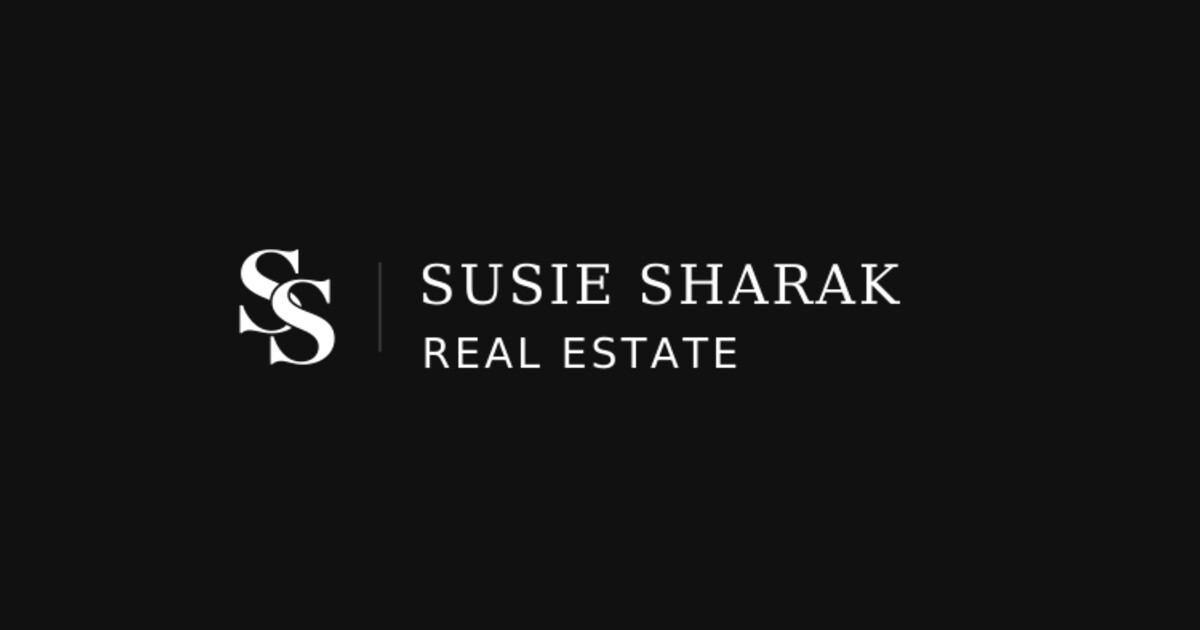
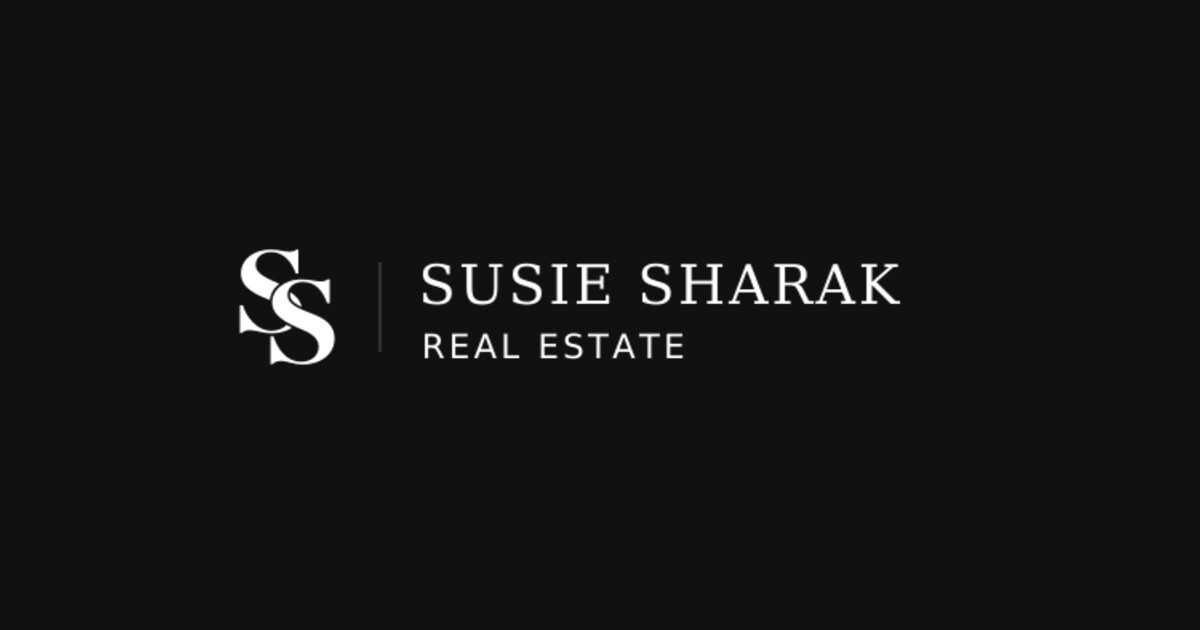
Update branding assets and site layout configuration
Replit-Commit-Author: Agent

Changed region(s): [[0.3392, 0.5127, 0.6167, 0.6032]]

diff --git a/site/layout.css b/site/layout.css
@@ -39,7 +39,7 @@ p { margin-bottom: 18px; }
 .brand-brokerage { font-size: 12px; line-height: 1.4; margin-top: 3px; padding-left: 55px; }
 .header-call,.desktop-nav { display: none; }
 .mobile-menu { display: block; position: relative; flex-shrink: 0; margin-left: auto; }
-.mobile-menu summary { display: flex; align-items: center; gap: 14px; min-height: 48px; padding: 10px 16px; font-size: 16px; border: 1px solid var(--line); border-radius: 0; cursor: pointer; list-style: none; }
+.mobile-menu summary { display: flex; align-items: center; justify-content: center; width: 48px; height: 48px; min-height: 48px; padding: 12px; font-size: 16px; border: 1px solid #777; border-radius: 50%; cursor: pointer; list-style: none; }
 .mobile-menu summary::marker { display: none; }
 .menu-icon { width: 22px; height: 22px; }
 .mobile-menu summary span { padding-left: 8px; }
@@ -226,7 +226,7 @@ body:has(.mobile-menu[open]) .floating-contact { display: none; }
 @media (max-width: 699px) {
   .header-inner .brand-lockup { width: 230px; }
   .menu-open-label { display: none; }
-  .mobile-menu summary { width: 50px; padding: 12px; justify-content: center; }
+  .mobile-menu summary { width: 48px; padding: 12px; justify-content: center; }
   .mobile-menu .menu-icon { width: 24px; height: 24px; }
   .profile-card img { width: 140px; height: 40px; }
   .profile-grid { gap: 28px 30px; }
@@ -270,8 +270,8 @@ body:has(.mobile-menu[open]) .floating-contact { display: none; }
   .header-inner > .brand { grid-column: 1/4; grid-row: 1; }
   .brand-lockup { width: 250px; }
   .brand-brokerage { padding-left: 66px; }
-  .desktop-nav { display: flex; justify-content: center; align-items: center; grid-column: 4/11; grid-row: 1; gap: 18px; }
-  .desktop-nav a { display: inline-flex; align-items: center; min-height: 48px; font: 400 18px/1.4 var(--serif); letter-spacing: -.015em; }
+  .desktop-nav { display: flex; justify-content: flex-end; align-items: center; grid-column: 4/12; grid-row: 1; gap: 26px; }
+  .desktop-nav a { display: inline-flex; align-items: center; min-height: 48px; font: 500 16px/1.4 var(--sans); letter-spacing: 0; white-space: nowrap; }
   .header-call { display: none; }
   .header-call span { font-size: 12px; }
   .header-call { border: 1px solid var(--line); padding: 12px 18px; text-align: center; align-self: center; }
@@ -280,7 +280,7 @@ body:has(.mobile-menu[open]) .floating-contact { display: none; }
   .profile-card { padding: 0; }
   .contact-methods p { grid-template-columns: 105px minmax(0,1fr); gap: 16px; }
   .contact-bottom h2,.about-local h2,.communities-note h2 { font-size: 38px; }
-  .mobile-menu { display: block; grid-column: 11/13; grid-row: 1; justify-self: end; margin-left: 0; }
+  .mobile-menu { display: block; grid-column: 12/13; grid-row: 1; justify-self: end; margin-left: 0; }
   .mobile-menu nav { width: min(1160px,calc(100vw - 64px)); padding: 108px 64px 64px; }
   .menu-columns { grid-template-columns: repeat(4,minmax(0,1fr)); gap: 32px; }
   .menu-bottom { margin-top: 88px; padding-top: 48px; }

diff --git a/script/create-brand.py b/script/create-brand.py
@@ -40,7 +40,7 @@ if not mark_paths:
     raise ValueError("The source monogram has no vector paths")
 mark_paths = mark_paths.replace('fill="#35362F"', 'fill="currentColor"')
 name_paths = word_paths("SUSIE SHARAK", SERIF, 34, 2.1, 0, 36)
-descriptor = word_paths("REAL ESTATE", SANS, 26, 2.4, 2, 76)
+descriptor = word_paths("REAL ESTATE", SANS, 21, 2.4, 2, 70)
 
 
 def svg(viewbox, content, color):

diff --git a/.agents/memory/static-site-direction.md b/.agents/memory/static-site-direction.md
@@ -49,7 +49,13 @@ The user requested a hamburger menu on desktop with all her social links, and la
 
 **Why:** The user asked.
 
-**How to apply:** Keep the hamburger available on desktop and mobile with social and profile links. Also preserve the desktop navigation links and the full logo. Do not shrink the logo descriptor back into microtype.
+**How to apply:** Keep the hamburger available on desktop and mobile with social and profile links. Also preserve the desktop navigation links and the full logo. The user subsequently refined the logo direction: “REAL ESTATE” should be smaller or thinner than the name, while remaining readable.
+
+The user refined the header reference to compact sans-serif links aligned right and an icon-only hamburger without “Menu” text.
+
+**Why:** The user supplied a specific header reference and asked to match it.
+
+**How to apply:** Keep the expanded menu’s grouped layout, but use clean sans-serif type for the header links and no visible hamburger label. The circular menu toggle is separate from the square main call-to-action buttons.
 
 The user asked to remove the profile logo cards and put the linked logos immediately below the hero.
 
